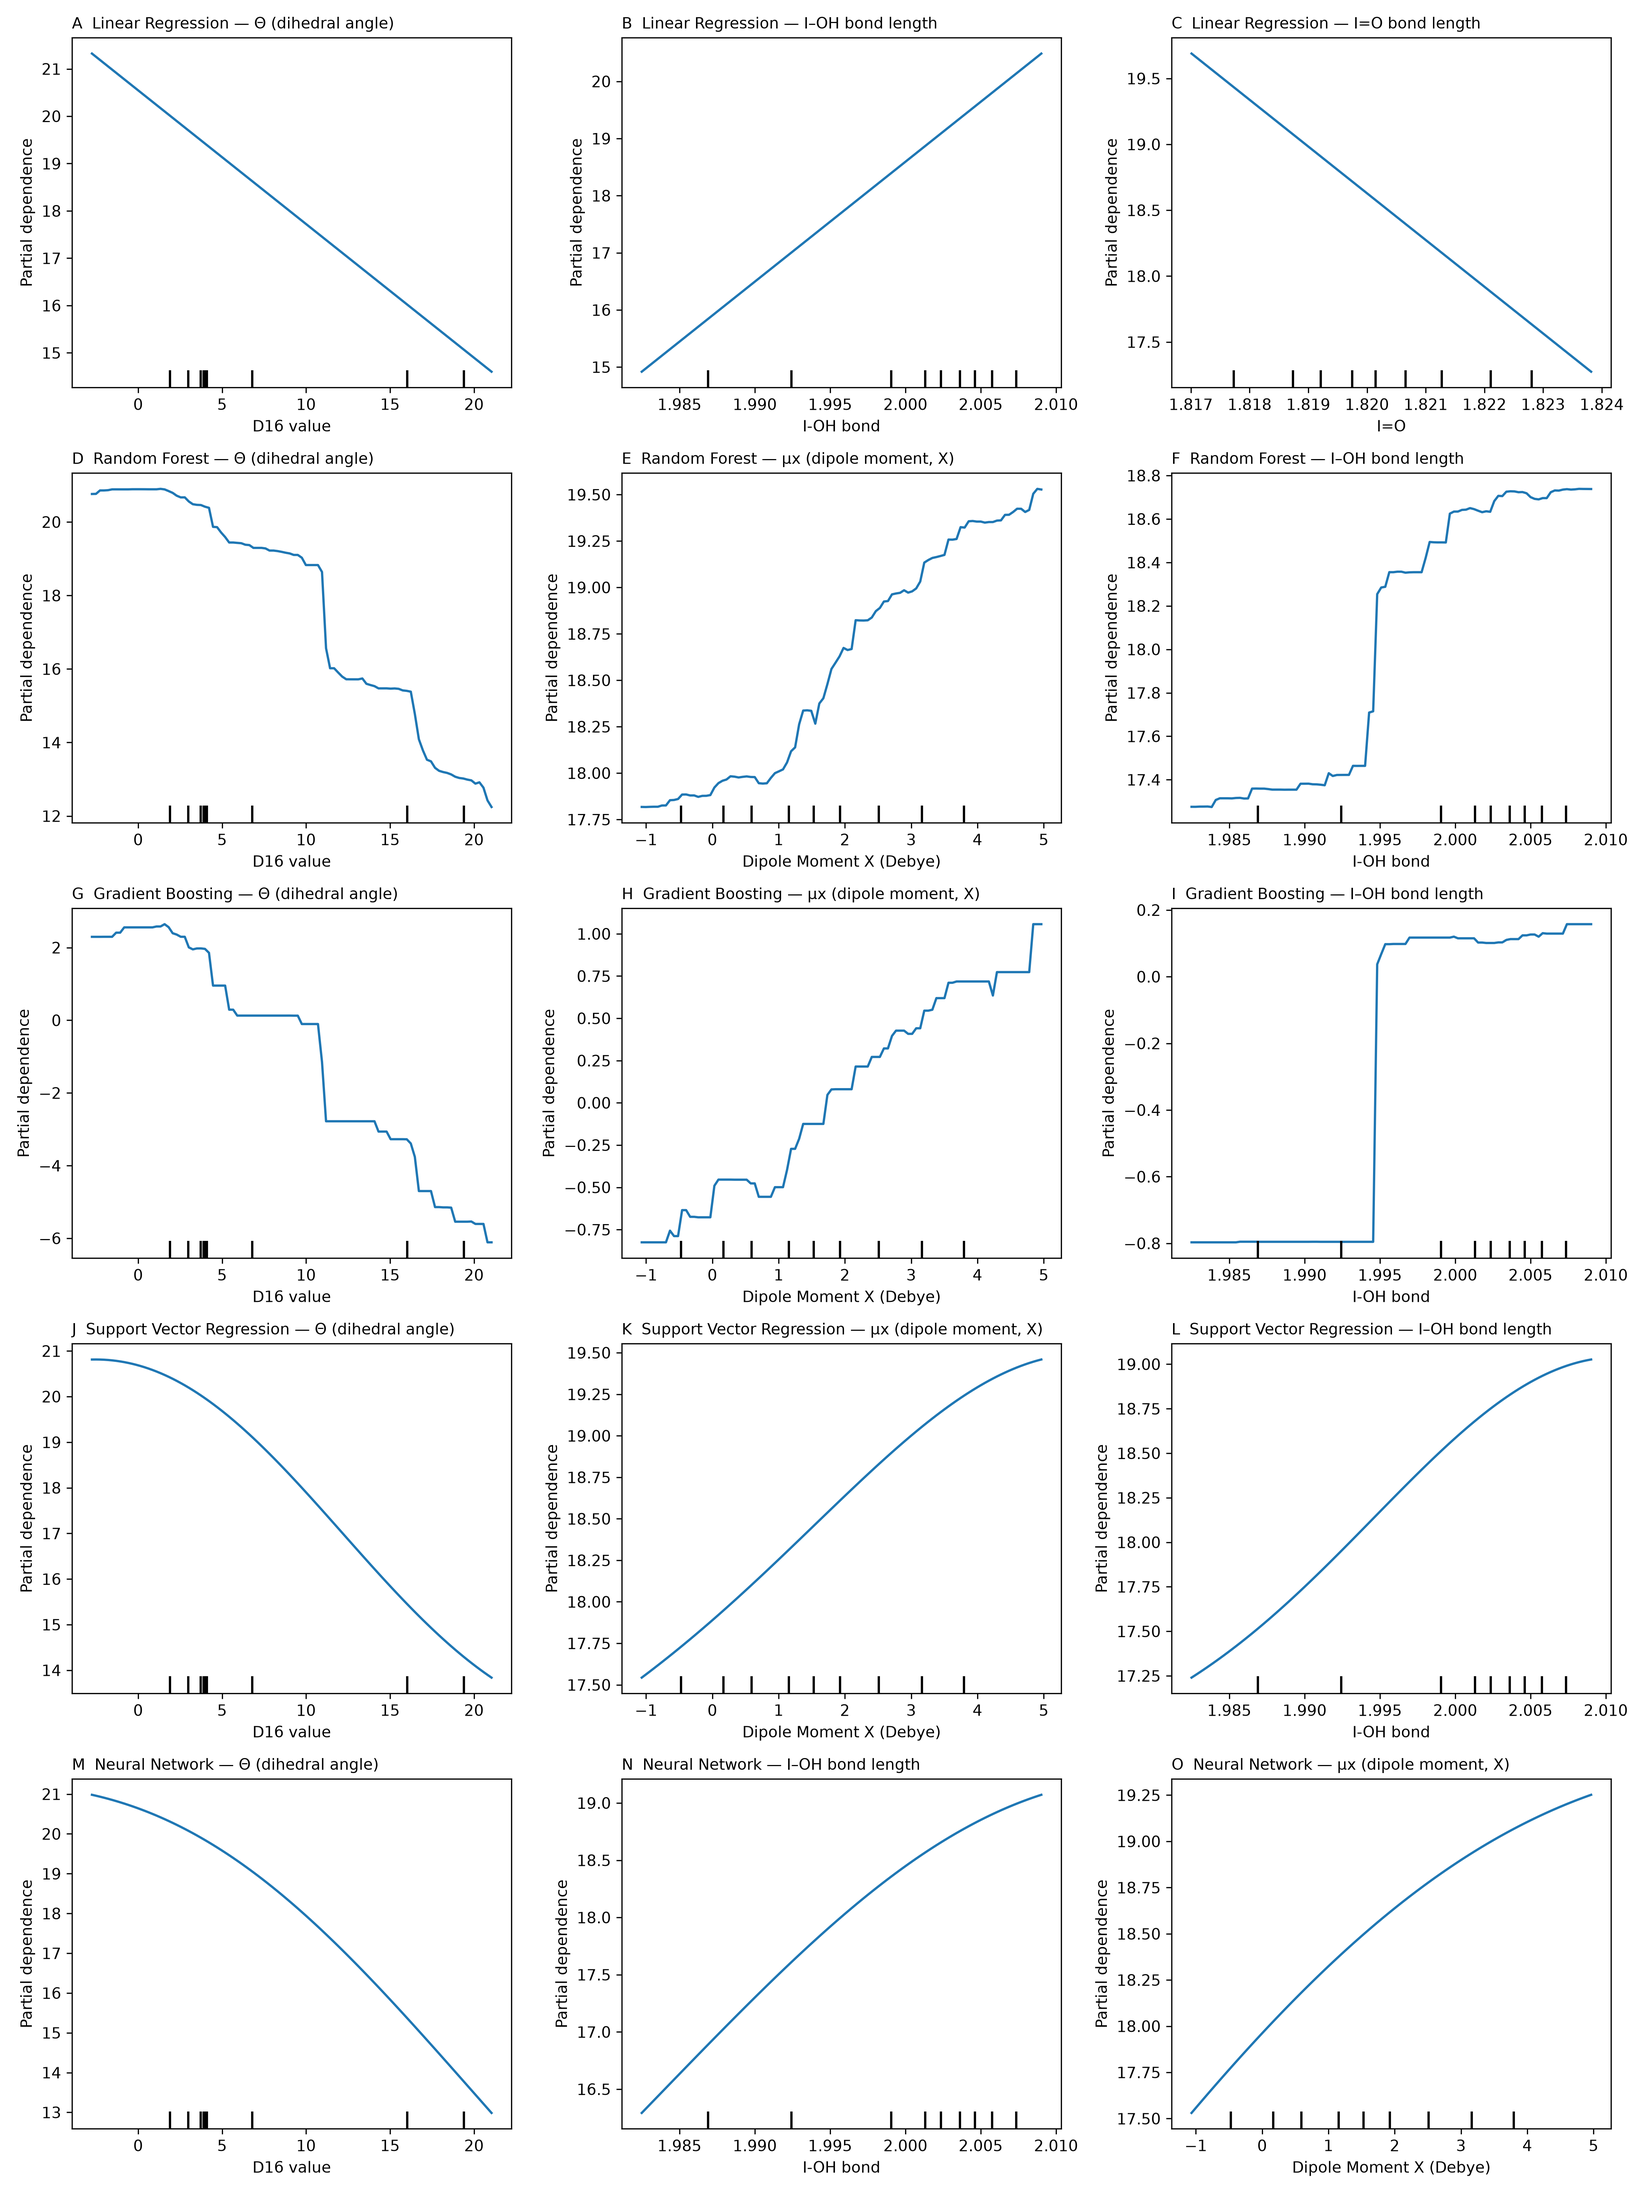
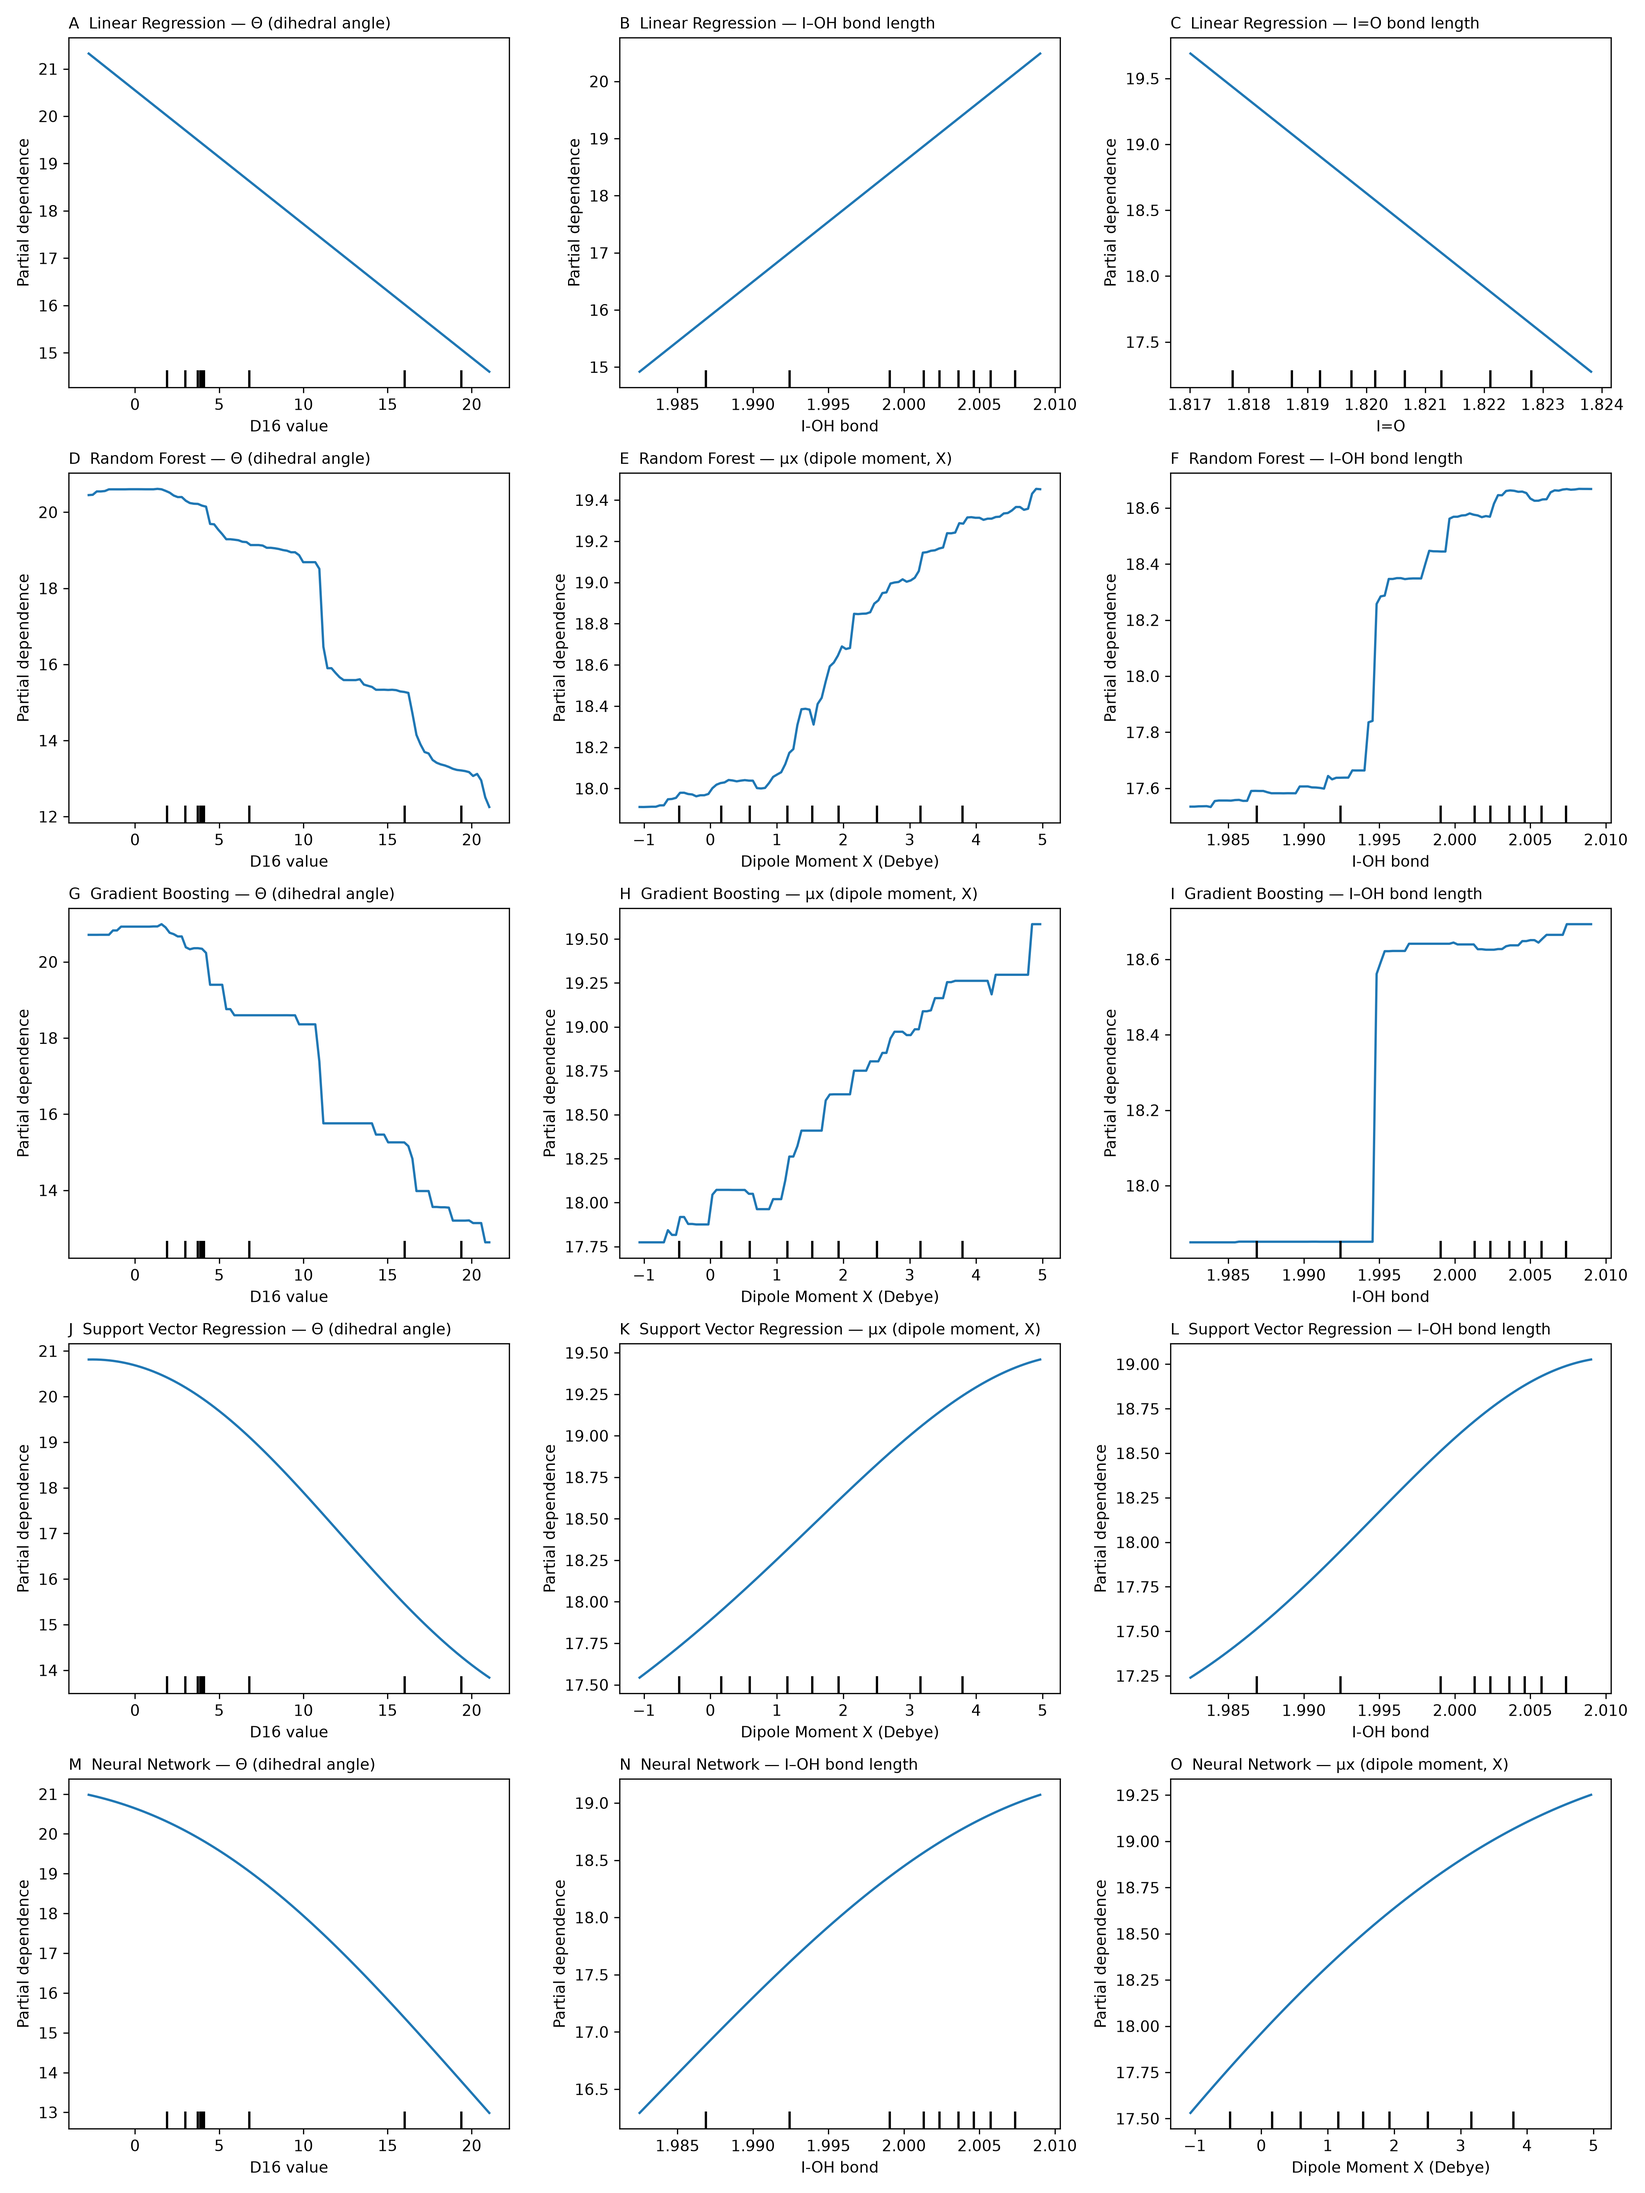
Fix GB PDP scale offset in SHAP-ranked grid (method="brute")
GradientBoostingRegressor's default PartialDependenceDisplay method
("recursion") omits the ensemble's initial estimator, offsetting its PDP
curves (previously ~-6 to +2) from the actual predicted TS-barrier scale
shown by the other four models (~13-21 kcal/mol). Switching to
method="brute" computes every panel by directly averaging model
predictions over the feature grid, so all five rows are now on the same,
scientifically comparable response scale.

SHAP-ranked descriptor selection is unchanged. Also corrects the README's
description of the earlier SVR/NN ranking discrepancy: it reflects SHAP
attribution on a differently-trained (unscaled default vs. tuned+scaled)
model, not the numerical range of I-OH bond values.

diff --git a/src/ibx_ml_analysis.py b/src/ibx_ml_analysis.py
@@ -713,8 +713,14 @@ def plot_pdp_grid(model_entries, X_train, png_path, pdf_path, feature_labels=Non
                 continue
 
             feature = entry["features"][col]
+            # method="brute" computes PDP curves by actually averaging model
+            # predictions over the grid (true response scale for every model
+            # type). The default "recursion" method for gradient-boosted
+            # trees omits the ensemble's initial estimator, which shifts its
+            # curves by a constant offset relative to the actual predicted
+            # scale -- "brute" avoids that and keeps all panels comparable.
             PartialDependenceDisplay.from_estimator(
-                entry["model"], X_train, features=[feature], ax=ax, kind="average",
+                entry["model"], X_train, features=[feature], ax=ax, kind="average", method="brute",
             )
             label = feature_labels.get(feature, feature)
             ax.set_title(f"{letters[letter_idx]}  {entry['name']} — {label}", fontsize=10, loc="left")

diff --git a/README.md b/README.md
@@ -133,7 +133,9 @@ The manuscript's Table 1 reports **default**-hyperparameter metrics; it does not
 - **Inverse relationship between Θ and the TS barrier**: confirmed — `D16 value` has a Pearson correlation of **-0.80** with `TS_Barrier` (`results/tables/correlation_matrix.csv`), the strongest of any descriptor.
 - **PCA**: PC1 explains **92.48%** of variance and PC2 explains **5.28%** (`results/tables/pca_explained_variance.csv`) — an exact match to the manuscript's reported values.
 - **SVR/NN outperforming linear/ensemble models**: confirmed at default hyperparameters (R² 0.974–0.975 vs. 0.83–0.94), matching the manuscript. Not preserved after this run's tuning (see above).
-- **Model-specific SHAP-ranked PDPs**: `results/figures/pdp_shap_top3_models.png` (and `.pdf`) shows each model's own top-3 descriptors by mean |SHAP value| — Θ dominates every model; the runner-up descriptors are μx (dipole moment X) and I–OH bond length for RF/GB/SVR/NN, and I–OH bond/I=O bond length for LR. Random Forest, Gradient Boosting and Linear Regression use their default fit (scale-invariant); SVR and the Neural Network use their tuned `StandardScaler` pipeline, since these algorithms are scale-sensitive and SHAP on their unscaled fit distorts attribution towards large-magnitude descriptors.
+- **Model-specific SHAP-ranked PDPs**: `results/figures/pdp_shap_top3_models.png` (and `.pdf`) shows each model's own top-3 descriptors by mean |SHAP value|, with Partial Dependence curves computed via `method="brute"` (the default `"recursion"` method for gradient-boosted trees omits the ensemble's initial estimator and offsets its curves from the true predicted-response scale; `"brute"` keeps every panel on the actual TS-barrier scale, ~13–21 kcal/mol here). Θ dominates every model; the runner-up descriptors are μx (dipole moment X) and I–OH bond length for RF/GB/SVR/NN, and I–OH bond/I=O bond length for LR.
+
+  Random Forest, Gradient Boosting and Linear Regression use the same default-hyperparameter fit reported in Table 1 (these algorithms are scale-invariant, so this is unambiguous). SVR and the Neural Network use their **tuned, `StandardScaler`-scaled pipeline** rather than the Table-1 default fit — this is a deliberate, single, consistently-applied choice for these two models, not an accidental mix of default/tuned analyses, and mirrors how SVR/NN are already treated in this script's own hyperparameter-tuning step and in the manuscript's stated methodology ("for models sensitive to feature scaling (SVR and NN), tuning was integrated within a pipeline that included a standard scaler"). Computing SHAP on SVR/NN's *unscaled* default fit instead produces a materially different top-3 ranking (dipole-moment-total displaces I–OH bond) — not because I–OH bond's values happen to occupy a narrow numerical range, but because SVR and MLP are trained on the *unscaled* features in that configuration, so the model itself weighs each descriptor differently; SHAP attribution reflects what the trained model actually learned; a different trained model yields a different attribution.
 
 ## Citation
 
